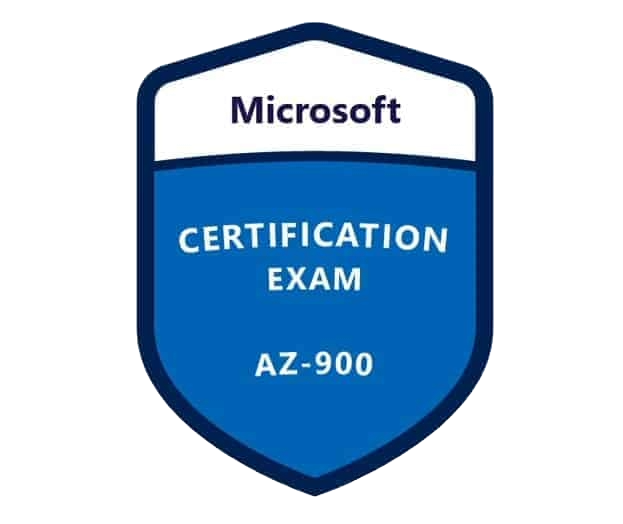
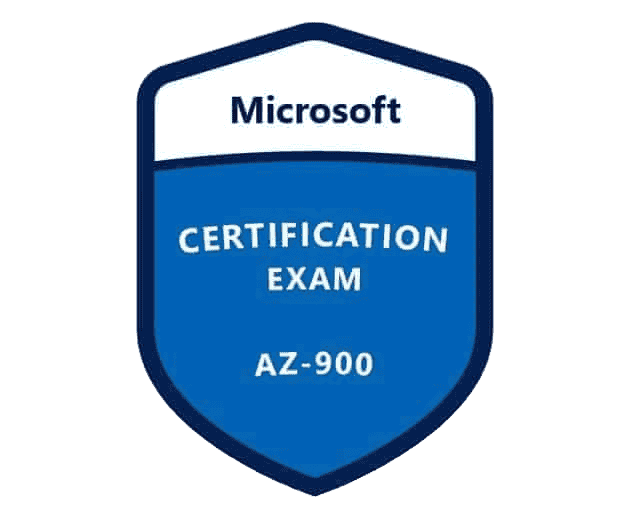
resize images

diff --git a/blog.html b/blog.html
@@ -122,7 +122,11 @@
 
               <!--  -->
               <!-- Blog Card 1-->
-              <div class="card shadow border-0 rounded-4 mb-5">
+
+              <div
+                id="myrankingbook"
+                class="card shadow border-0 rounded-4 mb-5"
+              >
                 <div class="card-body p-4 text-center">
                   <!-- Image Frame -->
                   <div
@@ -227,6 +231,107 @@
                                   read!
                                 </p>
                               </div>
+
+                              <!-- BOOK2 -->
+                              <div class="row align-items-center mt-4">
+                                <div class="col-md-8">
+                                  <div
+                                    class="d-flex justify-content-between align-items-center"
+                                  >
+                                    <h4 class="mb-0">Mybook2</h4>
+                                    <p class="mb-0">
+                                      <span style="color: gold">★★★☆☆</span>
+                                    </p>
+                                  </div>
+                                  <p class="mt-2">
+                                    Lorem ipsum dolor sit amet, consectetur
+                                    adipiscing elit. Sed ac felis non justo
+                                    fermentum accumsan.
+                                  </p>
+                                </div>
+                                <div class="col-md-4 text-end">
+                                  <img
+                                    src="assets/book-cover.png"
+                                    alt="Book Image"
+                                    class="img-fluid rounded shadow"
+                                  />
+                                </div>
+                              </div>
+                              <!-- BOOK3 -->
+                              <div class="row align-items-center mt-4">
+                                <div class="col-md-8">
+                                  <div
+                                    class="d-flex justify-content-between align-items-center"
+                                  >
+                                    <h4 class="mb-0">Mybook3</h4>
+                                    <p class="mb-0">
+                                      <span style="color: gold">★★★☆☆</span>
+                                    </p>
+                                  </div>
+                                  <p class="mt-2">
+                                    Lorem ipsum dolor sit amet, consectetur
+                                    adipiscing elit. Sed ac felis non justo
+                                    fermentum accumsan.
+                                  </p>
+                                </div>
+                                <div class="col-md-4 text-end">
+                                  <img
+                                    src="assets/book-cover.png"
+                                    alt="Book Image"
+                                    class="img-fluid rounded shadow"
+                                  />
+                                </div>
+                              </div>
+                              <!-- BOOK4 -->
+                              <div class="row align-items-center mt-4">
+                                <div class="col-md-8">
+                                  <div
+                                    class="d-flex justify-content-between align-items-center"
+                                  >
+                                    <h4 class="mb-0">Mybook4</h4>
+                                    <p class="mb-0">
+                                      <span style="color: gold">★★★☆☆</span>
+                                    </p>
+                                  </div>
+                                  <p class="mt-2">
+                                    Lorem ipsum dolor sit amet, consectetur
+                                    adipiscing elit. Sed ac felis non justo
+                                    fermentum accumsan.
+                                  </p>
+                                </div>
+                                <div class="col-md-4 text-end">
+                                  <img
+                                    src="assets/book-cover.png"
+                                    alt="Book Image"
+                                    class="img-fluid rounded shadow"
+                                  />
+                                </div>
+                              </div>
+                              <!-- BOOK5 -->
+                              <div class="row align-items-center mt-4">
+                                <div class="col-md-8">
+                                  <div
+                                    class="d-flex justify-content-between align-items-center"
+                                  >
+                                    <h4 class="mb-0">Mybook5</h4>
+                                    <p class="mb-0">
+                                      <span style="color: gold">★★★☆☆</span>
+                                    </p>
+                                  </div>
+                                  <p class="mt-2">
+                                    Lorem ipsum dolor sit amet, consectetur
+                                    adipiscing elit. Sed ac felis non justo
+                                    fermentum accumsan.
+                                  </p>
+                                </div>
+                                <div class="col-md-4 text-end">
+                                  <img
+                                    src="assets/book-cover.png"
+                                    alt="Book Image"
+                                    class="img-fluid rounded shadow"
+                                  />
+                                </div>
+                              </div>
                             </div>
                           </section>
                         </div>
@@ -254,12 +359,11 @@
                     />
                   </div>
 
-                  <h5 class="fw-bold mb-3">Maybe this centered as title?</h5>
+                  <h5 class="fw-bold mb-3">Coming Soon...</h5>
 
                   <p class="text-muted mb-4">
-                    ipsum dolor sit amet consectetur adipisicing elit. Delectus
-                    laudantium, voluptatem qussomeot lapium latinum
-                    quatchepasa....
+                    Thank you for your patience! I'm currently working on the
+                    new post...
                   </p>
 
                   <button
@@ -267,6 +371,7 @@
                     class="btn btn-danger px-4 rounded-pill shadow-sm"
                     data-bs-toggle="modal"
                     data-bs-target="#readMoreModal2"
+                    disabled
                   >
                     Read more...
                   </button>
@@ -302,231 +407,6 @@
                 </div>
               </div>
               <!-- End blog Card 2 -->
-
-              <!--  -->
-
-              <!--  -->
-              <!-- Blog Card 2-->
-              <!-- <div class="card shadow border-0 rounded-4 mb-5">
-                <div class="card-body p-5">
-                  <div class="row align-items-center gx-5">
-                    <div class="col text-center text-lg-start mb-4 mb-lg-0">
-                      <div class="bg-light p-4 rounded-4">
-                        <div class="text-primary fw-bolder mb-2">MY BOOK1</div>
-                        <div class="small fw-bolder">Self learning</div>
-                        <div class="small text-muted">Author: Vincenzo</div>
-                        <div class="small text-muted">Language: Ita/Eng</div>
-                      </div>
-                    </div>
-                    <div class="col-lg-8">
-                      <div>
-                        Lorem ipsum dolor sit amet consectetur adipisicing elit.
-                        Delectus laudantium, voluptatem quis repellendus eaque
-                        sit animi illo ipsam amet officiis corporis sed aliquam
-                        non voluptate corrupti excepturi maxime porro fuga.
-                      </div>
-                      <button
-                        type="button"
-                        class="btn btn-danger mt-4"
-                        data-bs-toggle="modal"
-                        data-bs-target="#readMoreModal1"
-                      >
-                        Read more...
-                      </button>
-                    </div>
-                  </div>
-                </div>
-              </div>
-
-              <div
-                class="modal fade"
-                id="readMoreModal1"
-                tabindex="-1"
-                aria-labelledby="readMoreModal1Label"
-                aria-hidden="true"
-              >
-                <div
-                  class="modal-dialog modal-dialog-centered modal-lg modal-dialog-scrollable"
-                >
-                  <div class="modal-content rounded-4">
-                    <div class="modal-header">
-                      <h5 class="modal-title" id="readMoreModal1Label">
-                        MY BOOK1 - More Details
-                      </h5>
-                      <button
-                        type="button"
-                        class="btn-close"
-                        data-bs-dismiss="modal"
-                        aria-label="Close"
-                      ></button>
-                    </div>
-                    <div class="modal-body">
-                      <p>
-                        Here you can add more details about your book, your
-                        learning journey, or anything you want to share.<br /><br />
-                        Lorem ipsum dolor sit amet, consectetur adipisicing
-                        elit. Quisquam, quidem. <br />
-                        (Add as much content as you want, this area is
-                        scrollable if it overflows.) Here you can add more
-                        details about your book, your learning journey, or
-                        anything you want to share.<br /><br />
-                        Lorem ipsum dolor sit amet, consectetur adipisicing
-                        elit. Quisquam, quidem. <br />
-                        (Add as much content as you want, this area is
-                        scrollable if it overflows.) Here you can add more
-                        details about your book, your learning journey, or
-                        anything you want to share.<br /><br />
-                        Lorem ipsum dolor sit amet, consectetur adipisicing
-                        elit. Quisquam, quidem. <br />
-                        (Add as much content as you want, this area is
-                        scrollable if it overflows.) Here you can add more
-                        details about your book, your learning journey, or
-                        anything you want to share.<br /><br />
-                        Lorem ipsum dolor sit amet, consectetur adipisicing
-                        elit. Quisquam, quidem. <br />
-                        (Add as much content as you want, this area is
-                        scrollable if it overflows.) Here you can add more
-                        details about your book, your learning journey, or
-                        anything you want to share.<br /><br />
-                        Lorem ipsum dolor sit amet, consectetur adipisicing
-                        elit. Quisquam, quidem. <br />
-                        (Add as much content as you want, this area is
-                        scrollable if it overflows.) Here you can add more
-                        details about your book, your learning journey, or
-                        anything you want to share.<br /><br />
-                        Lorem ipsum dolor sit amet, consectetur adipisicing
-                        elit. Quisquam, quidem. <br />
-                        (Add as much content as you want, this area is
-                        scrollable if it overflows.)
-                      </p>
-                      <p>
-                        More content...<br />
-                        Lorem ipsum dolor sit amet, consectetur adipisicing
-                        elit. Quisquam, quidem.
-                      </p>
-                      <p>
-                        Even more content...<br />
-                        Lorem ipsum dolor sit amet, consectetur adipisicing
-                        elit. Quisquam, quidem.
-                      </p>
-                    </div>
-                  </div>
-                </div>
-              </div> -->
-              <!-- end blog card 2 -->
-              <!--  -->
-
-              <!--  -->
-              <!-- Blog Card 3-->
-              <!-- <div class="card shadow border-0 rounded-4 mb-5">
-                <div class="card-body p-5">
-                  <div class="row align-items-center gx-5">
-                    <div class="col text-center text-lg-start mb-4 mb-lg-0">
-                      <div class="bg-light p-4 rounded-4">
-                        <div class="text-primary fw-bolder mb-2">MY BOOK1</div>
-                        <div class="small fw-bolder">Self learning</div>
-                        <div class="small text-muted">Author: Vincenzo</div>
-                        <div class="small text-muted">Language: Ita/Eng</div>
-                      </div>
-                    </div>
-                    <div class="col-lg-8">
-                      <div>
-                        Lorem ipsum dolor sit amet consectetur adipisicing elit.
-                        Delectus laudantium, voluptatem quis repellendus eaque
-                        sit animi illo ipsam amet officiis corporis sed aliquam
-                        non voluptate corrupti excepturi maxime porro fuga.
-                      </div>
-
-                      <button
-                        type="button"
-                        class="btn btn-danger mt-4"
-                        data-bs-toggle="modal"
-                        data-bs-target="#readMoreModal1"
-                      >
-                        Read more...
-                      </button>
-                    </div>
-                  </div>
-                </div>
-              </div>
-
-              <div
-                class="modal fade"
-                id="readMoreModal1"
-                tabindex="-1"
-                aria-labelledby="readMoreModal1Label"
-                aria-hidden="true"
-              >
-                <div
-                  class="modal-dialog modal-dialog-centered modal-lg modal-dialog-scrollable"
-                >
-                  <div class="modal-content rounded-4">
-                    <div class="modal-header">
-                      <h5 class="modal-title" id="readMoreModal1Label">
-                        MY BOOK1 - More Details
-                      </h5>
-                      <button
-                        type="button"
-                        class="btn-close"
-                        data-bs-dismiss="modal"
-                        aria-label="Close"
-                      ></button>
-                    </div>
-                    <div class="modal-body">
-                      <p>
-                        Here you can add more details about your book, your
-                        learning journey, or anything you want to share.<br /><br />
-                        Lorem ipsum dolor sit amet, consectetur adipisicing
-                        elit. Quisquam, quidem. <br />
-                        (Add as much content as you want, this area is
-                        scrollable if it overflows.) Here you can add more
-                        details about your book, your learning journey, or
-                        anything you want to share.<br /><br />
-                        Lorem ipsum dolor sit amet, consectetur adipisicing
-                        elit. Quisquam, quidem. <br />
-                        (Add as much content as you want, this area is
-                        scrollable if it overflows.) Here you can add more
-                        details about your book, your learning journey, or
-                        anything you want to share.<br /><br />
-                        Lorem ipsum dolor sit amet, consectetur adipisicing
-                        elit. Quisquam, quidem. <br />
-                        (Add as much content as you want, this area is
-                        scrollable if it overflows.) Here you can add more
-                        details about your book, your learning journey, or
-                        anything you want to share.<br /><br />
-                        Lorem ipsum dolor sit amet, consectetur adipisicing
-                        elit. Quisquam, quidem. <br />
-                        (Add as much content as you want, this area is
-                        scrollable if it overflows.) Here you can add more
-                        details about your book, your learning journey, or
-                        anything you want to share.<br /><br />
-                        Lorem ipsum dolor sit amet, consectetur adipisicing
-                        elit. Quisquam, quidem. <br />
-                        (Add as much content as you want, this area is
-                        scrollable if it overflows.) Here you can add more
-                        details about your book, your learning journey, or
-                        anything you want to share.<br /><br />
-                        Lorem ipsum dolor sit amet, consectetur adipisicing
-                        elit. Quisquam, quidem. <br />
-                        (Add as much content as you want, this area is
-                        scrollable if it overflows.)
-                      </p>
-                      <p>
-                        More content...<br />
-                        Lorem ipsum dolor sit amet, consectetur adipisicing
-                        elit. Quisquam, quidem.
-                      </p>
-                      <p>
-                        Even more content...<br />
-                        Lorem ipsum dolor sit amet, consectetur adipisicing
-                        elit. Quisquam, quidem.
-                      </p>
-                    </div>
-                  </div>
-                </div>
-              </div> -->
-              <!--  -->
-              <!-- End blog card 3 -->
 
               <!--  -->
             </section>
